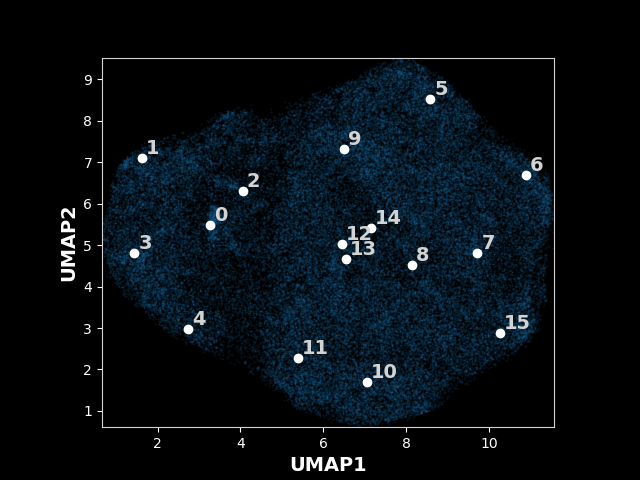
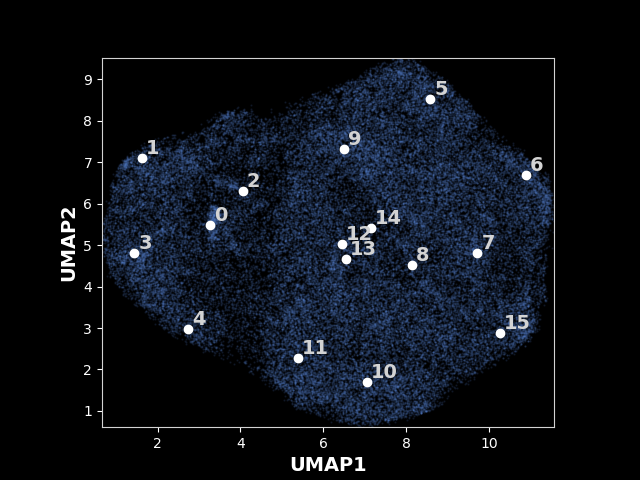
update image

diff --git a/README.md b/README.md
@@ -54,7 +54,7 @@ Comparison between some states:
 
 A more colorful one, the particles are colored according to their projection classes, note the clusters often show certain dominant colors, this is due to the consensus refinement will account structural variations in images by distorting their pose paramters like **fitting a longer rod into a small gap by tilting the rod! (those are all what the consensus refinement can fit!)**
 
-![Alt text](https://raw.githubusercontent.com/alncat/opusDSD/main/example/umapr.jpg?raw=true "80S ribosome color UMAP")
+![Alt text](https://raw.githubusercontent.com/alncat/opusDSD/main/example/umapr.png?raw=true "80S ribosome color UMAP")
 
 Data source: [EMPIAR-10002](https://www.ebi.ac.uk/empiar/EMPIAR-10002/). The particles are colored according to their pose parameters in this image.
 
